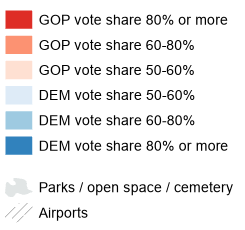
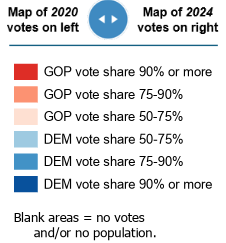
updating legend

diff --git a/js/colors.js b/js/colors.js
@@ -3,27 +3,27 @@
 //////////////////////////////////////////////////
 const colorScale = [
     {
-        pct: 80,
-        color: '#3183bd',
+        pct: 90,
+        color: '#08519C',
         label: "Dem vote share 80%-100%"
     },
     {
-        pct: 60,
-        color: '#9fcae2',
+        pct: 75,
+        color: '#4292C6',
         label: "Dem vote share 60%-80%"
     },
     {
         pct: 50,
-        color: '#deebf7',
+        color: '#9ECAE1',
         label: "Dem vote share 50%-60%"
     },
     {
-        pct: 40,
+        pct: 25,
         color: '#ffe0d2',
         label: "GOP vote share 50%-60%"
     },
     {
-        pct: 20,
+        pct: 10,
         color: '#fd9272',
         label: "GOP vote share 60%-80%"
     },

diff --git a/js/map.js b/js/map.js
@@ -20,7 +20,7 @@ var _2020 = new maplibregl.Map({
     container: "before",
     style: mapboxStyleURL,
     center: [-73.9438, 40.7811],
-    zoom: 8.5,
+    zoom: 10,
     transformRequest
 });
 
@@ -67,7 +67,7 @@ var _2024 = new maplibregl.Map({
     container: "after",
     style: mapboxStyleURL,
     center: [-73.9438, 40.7811],
-    zoom: 8.5,
+    zoom: 10,
     transformRequest
 });
 
